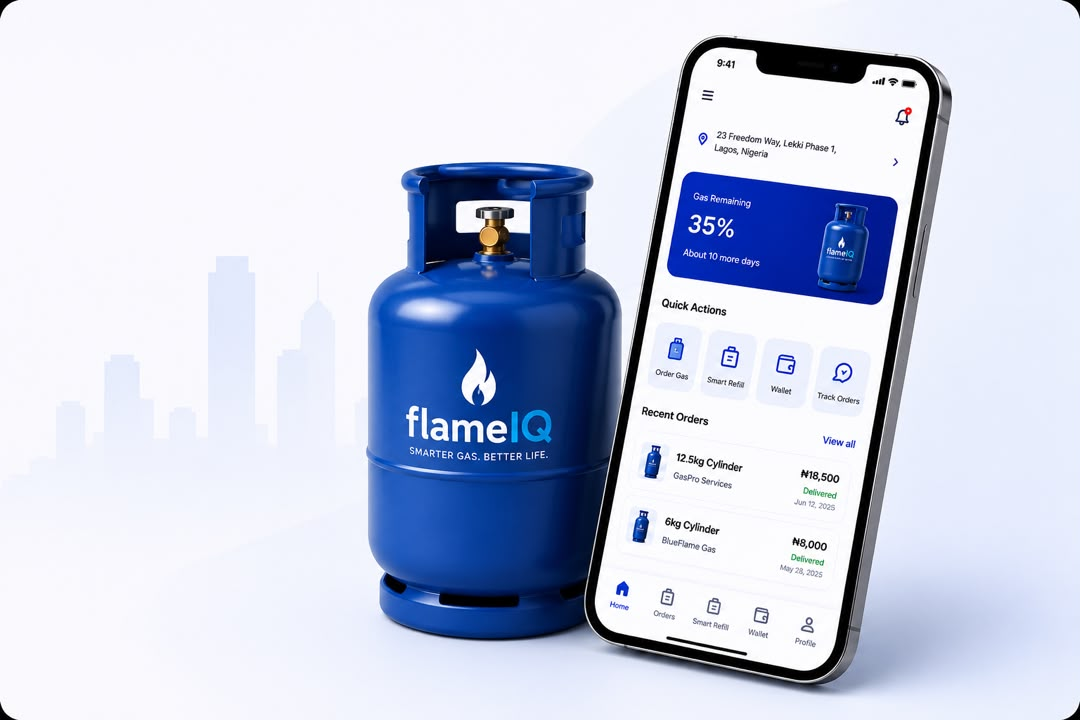
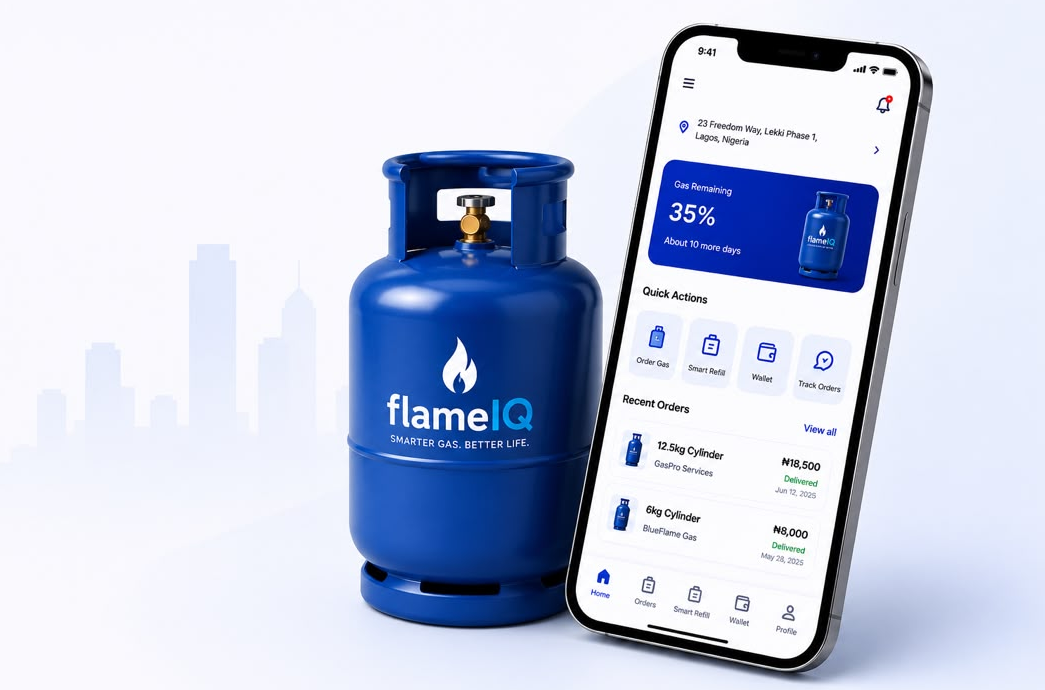
cgecj

diff --git a/frontend/app/page.tsx b/frontend/app/page.tsx
@@ -27,7 +27,7 @@ export default function WelcomePage() {
       </header>
 
       {/* Hero */}
-      <section className="mx-auto grid max-w-6xl grid-cols-1 items-center gap-10 px-6 py-8 md:grid-cols-2 md:px-12 md:py-14">
+      <section className="mx-auto grid max-w-6xl grid-cols-1 items-center gap-10 px-6 py-8 md:grid-cols-2 md:px-12 md:py-14 bg-[url('/images/mb-hero-flameiq.png')] md:bg-[url('/images/hero-flameiq.png')] bg-contain bg-right bg-no-repeat">
         {/* Left: copy */}
         <div>
           <span className="inline-flex items-center gap-1.5 rounded-full bg-notify-50 px-3 py-1 text-xs font-semibold text-notify-700">
@@ -97,8 +97,8 @@ export default function WelcomePage() {
           </div>
         </div>
 
-        {/* Right: hero image, no card — floats directly on the page */}
-        <div className="w-full">
+        {/* Right: hero image, no card — floats directly on the page */} 
+        <div className="w-full h-full block md:hidden">
           <Image
             src="/images/hero-flameiq.png"
             alt="FlameIQ gas cylinder and mobile app"
@@ -106,8 +106,10 @@ export default function WelcomePage() {
             height={1200}
             priority
             sizes="(max-width: 768px) 100vw, 50dvw"
-            className="h-auto w-full object-cover"
+            className=" w-full object-cover"
           />
+          
+        
         </div>
       </section>
     </main>
